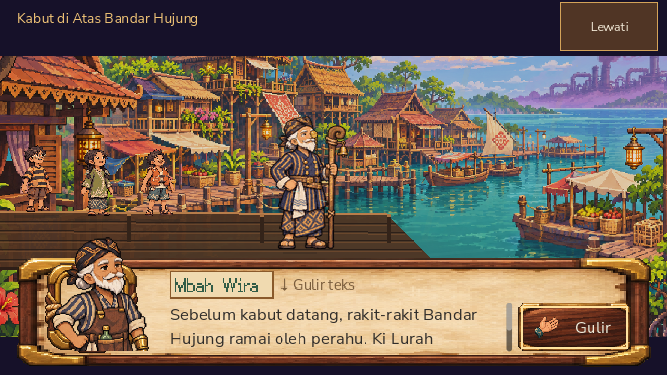
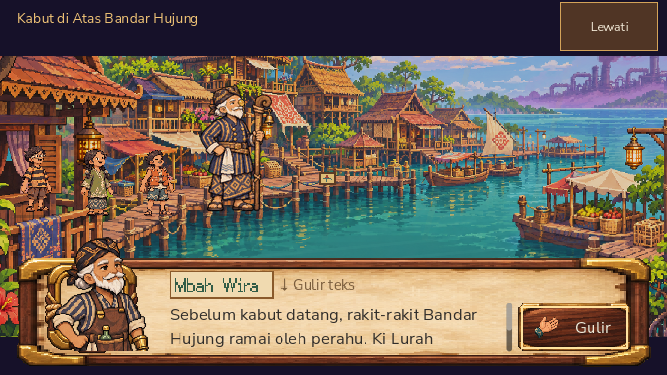
fix: ground Lurah close pose on existing harbor pier

diff --git a/docs/reviews/cutscene-lurah-close-pose-2026-11-18.md b/docs/reviews/cutscene-lurah-close-pose-2026-11-18.md
@@ -1,14 +1,16 @@
 # Ki Lurah foreground teaching pose in the prologue harbor
 
-The existing 667×375 [settled harbor lesson](../visual/cutscene-focal-stage-20261118/prologue-01-t2-667x375.webp) left Ki Lurah at roughly the children's visual weight, even after the focal blocking pass. Enlarging the 64×64 walking frame further would have made its sparse pixels dominant. This isolated candidate uses the project's original high-detail Ki Lurah portrait: a 512×512 atlas cell is reduced once to a transparent 128×128, 64-color source-pixel cutout. The composition moves that actor from the far pier to a connected timber foreground tread as the camera settles; the three children remain visible on the older dock. The wide establishing moment is retained.
+The existing 667×375 [settled harbor lesson](../visual/cutscene-focal-stage-20261118/prologue-01-t2-667x375.webp) left Ki Lurah at roughly the children's visual weight, even after the focal blocking pass. Enlarging the 64×64 walking frame further would have made its sparse pixels dominant. This isolated candidate uses the project's original high-detail Ki Lurah portrait: a 512×512 atlas cell is reduced once to a transparent 128×128, 64-color source-pixel cutout. He settles toward the camera **on the existing painted pier**, while the three children remain visible behind him. A tiny whole-silhouette lean around fixed soles, a staff-bell pulse and a responding compass needle add a teaching cue without cutting or shearing limbs. Reduced-motion mode holds the pose and needle steady. The wide establishing moment is retained.
 
 | Reviewed beat | 667×375 native proof | Observation |
 | --- | --- | --- |
 | Entry, 0.5 s | [t0](../visual/cutscene-lurah-close-pose-20261118/prologue-01-t0-667x375.webp) | Wide village and three children remain unobstructed; Lurah is on the original pier. |
-| Approach, 1.25 s | [t1](../visual/cutscene-lurah-close-pose-20261118/prologue-01-t1-667x375.webp) | Near deck joins the left dock, with Lurah's feet on its front tread. |
-| Settled, 2.0 s | [t2](../visual/cutscene-lurah-close-pose-20261118/prologue-01-t2-667x375.webp) | Detailed Lurah and staff are legible without covering the children, skip button or dialogue. |
+| Approach, 1.25 s | [t1](../visual/cutscene-lurah-close-pose-20261118/prologue-01-t1-667x375.webp) | Lurah's complete silhouette grows, but shoes remain on the original narrow pier. |
+| Settled, 2.0 s | [t2](../visual/cutscene-lurah-close-pose-20261118/prologue-01-t2-667x375.webp) | Detailed Lurah and staff are legible without covering the children, skip button or dialogue. No added floor appears in the water. |
 | Settled, 844×390 | [t2](../visual/cutscene-lurah-close-pose-20261118/prologue-01-t2-844x390.webp) | The same framing stays clear in the wider landscape viewport. |
 
-Godot 4.7.2 Compatibility on Apple M2/Metal ran `CINEMATIC_CAPTURE=1 CINEMATIC_CASE_FILTER=prologue:1 Godot --rendering-method gl_compatibility --path client-godot --script res://../scripts/tests/phase-one-hero-staging.gd`: **134 focal-size/layout checks, 122 native captures, exit 0**, with no `SCRIPT ERROR`, `ERROR:` or parse error in the native log. All three moments at 667×375 and the settled 844×390 frame were inspected at their actual output size. The first cold headless asset import exited 139 at 79%; a clean retry completed, and the native fixture then passed. This cold-import crash is not counted as a pass. `git diff --check` passed. The four curated lossless WebP files total approximately 1.3 MiB; original PNGs remain in ignored `artifacts/godot/phase-one-character-closeup/`.
+Godot 4.7.2 Compatibility on Apple M2/Metal ran `CINEMATIC_CAPTURE=1 CINEMATIC_CASE_FILTER=prologue:1 Godot --rendering-method gl_compatibility --path client-godot --script res://../scripts/tests/phase-one-hero-staging.gd`: **134 focal-size/layout checks, 122 native captures, exit 0** on the final correction, with no `SCRIPT ERROR`, `ERROR:` or parse error in its native log. All three moments at 667×375 and the settled 844×390 frame were inspected at their actual output size. The initial attempt added an unsupported flat foredeck; the integrator rejected it after visual review, and the candidate shown here **removes it completely**. The first cold headless asset import exited 139 at 79%; a clean retry completed, and native runs then passed. This cold-import crash is not counted as a pass. `git diff --check` passed. The four curated lossless WebP files total approximately 1.3 MiB; original PNGs remain in ignored `artifacts/godot/phase-one-character-closeup/`.
 
-The source portrait is original project art under the existing artwork terms in `LICENSE`; no external sprite, moodboard pixels, or AI-generated new art was added. The [asset recipe](../../client-godot/resources/art/cinematics-v2/close-pose/README.md) pins the source/runtime hashes and ImageMagick 7.1.2-31 command. The foreground tread and its planks are code-authored in `CinematicActionLayer.gd`; runtime sampling remains nearest. This is a local branch candidate, not a merged/staged release. It improves one close beat, but the teaching hand remains mostly static, the deck is a simple plane, other wide-shot citizens still vary in scale, and browser motion/Windows/S23 review is outstanding. It does **not** establish full moodboard parity.
[1 lines of base64/hex data omitted]
+
+The source portrait is original project art under the existing artwork terms in `LICENSE`; no external sprite, moodboard pixels, or AI-generated new art was added. The [asset recipe](../../client-godot/resources/art/cinematics-v2/close-pose/README.md) pins the source/runtime hashes and ImageMagick 7.1.2-31 command. Runtime sampling remains nearest. This is a local branch candidate, not a merged/staged release. It improves one close beat, but the hand remains mostly static, the narrow pier limits further foreground scale, other wide-shot citizens still vary in scale, and browser motion/Windows/S23 review is outstanding. It does **not** establish full moodboard parity.

diff --git a/client-godot/resources/art/cinematics-v2/close-pose/README.md b/client-godot/resources/art/cinematics-v2/close-pose/README.md
@@ -8,4 +8,4 @@ Rebuild from the repository root with ImageMagick 7.1.2-31:
 magick client-godot/resources/art/village-residents-v1.png -crop 512x512+0+0 +repage -filter Lanczos -resize 128x128 -alpha on -dither None -colors 64 PNG32:client-godot/resources/art/cinematics-v2/close-pose/ki-lurah-teaching.png
 ```
 
-The actor's feet and foredeck are composed in `CinematicActionLayer.gd`. It uses nearest texture sampling at runtime. This source art retains the project's existing artwork terms in `LICENSE`; the visual reference moodboards are not bundled.
+The actor's feet remain on the original painted harbor pier; `CinematicActionLayer.gd` controls a bounded whole-silhouette lean, staff-bell pulse and compass response. It uses nearest texture sampling at runtime. This source art retains the project's existing artwork terms in `LICENSE`; the visual reference moodboards are not bundled.
